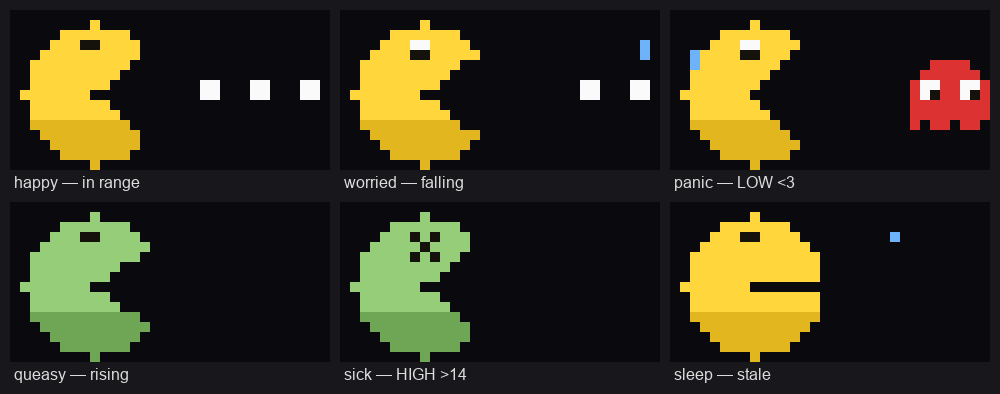
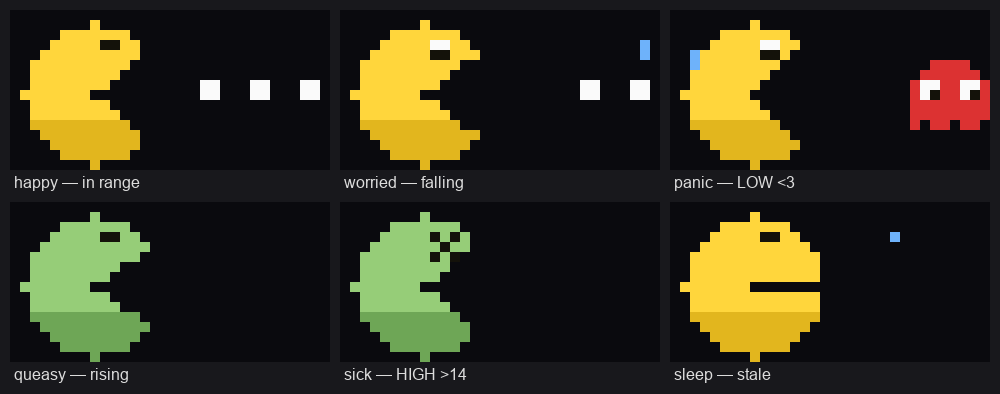
Move Pac-Man eye forward; redraw Snobben as a Snoopy-style profile
- pacman: eye sits up-front (toward the mouth) instead of dead centre.
- snobben: right-facing profile — round head + snout jutting right with the big
  black nose at the tip and the floppy ear at the back, much closer to Snoopy.
Regenerated pack GIFs + docs overviews.

diff --git a/src/gen-snobben.ts b/src/gen-snobben.ts
@@ -1,144 +1,115 @@
 /**
- * gen-snobben.ts — generate a "Snobben" (Snoopy-style beagle) face pack.
+ * gen-snobben.ts — "Snobben" (Snoopy-style beagle) face pack.
+ *   bun run gen-snobben   ->  packs/snobben/*.gif  + docs/snobben_*.gif
  *
- *   bun run gen-snobben
- *
- * Writes six 32x16 GIFs to packs/snobben/ (happy/worried/panic/queasy/sick/sleep)
- * plus upscaled previews to docs/. Original pixel art — a playful homage, not the
- * real character; for personal use on your own mug.
+ * A right-facing profile: round white head + a snout that juts to the right with
+ * the big black nose at the tip, one long floppy black ear at the back, small
+ * eyes. Original pixel art — a playful homage, not the real character.
  */
 import { GIFEncoder } from "gifenc";
 import { mkdirSync, writeFileSync } from "node:fs";
 import { join } from "node:path";
 
 const W = 32, H = 16;
-// 0 bg, 1 white, 2 black, 3 white-shade, 4 red, 5 green, 6 green-shade, 7 sweat
+// 0 bg,1 white,2 black,3 white-shade,4 red,5 green,6 green-shade,7 sweat
 const PALETTE: [number, number, number][] = [
   [10, 10, 14], [245, 245, 245], [20, 20, 20], [206, 206, 212],
   [210, 50, 50], [200, 230, 190], [168, 202, 158], [110, 178, 250],
 ];
 const CH: Record<string, number> = { B: 2, W: 1, R: 4, V: 7 };
-
 const blank = () => new Uint8Array(W * H).fill(0);
 
-/** Rounded-rect head, white (or green when sick), with a soft bottom shade. */
-function head(green = false, dx = 0): Uint8Array {
-  const f = blank();
-  const base = green ? 5 : 1, shade = green ? 6 : 3, r = 5;
-  const inRounded = (x: number, y: number) => {
-    const cxL = r, cxR = W - 1 - r, cyT = r, cyB = H - 1 - r;
-    const px = x < cxL ? cxL : x > cxR ? cxR : x;
-    const py = y < cyT ? cyT : y > cyB ? cyB : y;
-    const ddx = x - px, ddy = y - py;
-    return ddx * ddx + ddy * ddy <= r * r + 0.5;
-  };
+function ellipse(f: Uint8Array, cx: number, cy: number, rx: number, ry: number, color: number, dx = 0) {
   for (let y = 0; y < H; y++)
     for (let x = 0; x < W; x++) {
       const sx = x - dx;
-      if (sx < 0 || sx >= W || !inRounded(sx, y)) continue;
-      f[y * W + x] = y >= 12 ? shade : base;
+      if (((sx - cx) / rx) ** 2 + ((y - cy) / ry) ** 2 <= 1) f[y * W + x] = color;
     }
+}
+
+/** Head (round) + snout (juts right), white or green, shaded along the bottom. */
+function head(green = false, dx = 0): Uint8Array {
+  const f = blank();
+  const base = green ? 5 : 1, sh = green ? 6 : 3;
+  ellipse(f, 12, 7, 9, 6, base, dx); // skull
+  ellipse(f, 23, 10, 7, 4, base, dx); // snout
+  for (let y = 12; y < H; y++)
+    for (let x = 0; x < W; x++) if (f[y * W + x] === base) f[y * W + x] = sh;
   return f;
 }
-
-function stamp(f: Uint8Array, x: number, y: number, sprite: string[], dx = 0) {
-  for (let r = 0; r < sprite.length; r++)
-    for (let c = 0; c < sprite[r].length; c++) {
-      const ch = sprite[r][c];
-      if (ch === "." || ch === " ") continue;
-      const idx = CH[ch];
-      if (idx === undefined) continue;
-      const px = x + c + dx, py = y + r;
-      if (px >= 0 && px < W && py >= 0 && py < H) f[py * W + px] = idx;
-    }
+function stamp(f: Uint8Array, x: number, y: number, s: string[], dx = 0) {
+  for (let r = 0; r < s.length; r++) for (let c = 0; c < s[r].length; c++) {
+    const ch = s[r][c]; if (ch === "." || ch === " ") continue;
+    const idx = CH[ch]; if (idx === undefined) continue;
+    const px = x + c + dx, py = y + r;
+    if (px >= 0 && px < W && py >= 0 && py < H) f[py * W + px] = idx;
+  }
 }
 
-// Snoopy's long floppy black ear, hanging on the left
-const EAR = [
-  "BBB...", "BBBB..", "BBBB..", "BBBB..", "BBBB..",
-  "BBBB..", ".BBBB.", ".BBBB.", "..BBB.", "..BB..",
-];
-const EAR_UP = [ // flying up (panic)
-  "....BB", "..BBBB", ".BBBB.", "BBBB..", "BBB...",
-  "BBB...", "BBBB..", "BBBB..", ".BBB..", "..BB..",
-];
+// long floppy black ear at the back (left)
+const EAR = ["BBB..", "BBBB.", "BBBB.", "BBBBB", "BBBBB", ".BBBB", ".BBBB", ".BBB.", "..BB.", "..B.."];
+const EAR_UP = ["...BB", "..BBBB", ".BBBBB", "BBBBB.", "BBBB..", "BBB...", ".BB...", ".BB..."];
 
-// big black nose (snout)
-const NOSE = [".BBBB.", "BBBBBB", "BBBBBB", ".BBBB."];
-
-// eyes (black) — variants
-const EYE = ["B", "B", "B"];           // normal oval
-const EYE_HAPPY = ["B.B", ".B."];      // content ‿
-const EYE_WIDE = ["BB", "BB", "BB"];   // shocked
-const EYE_X = ["B.B", ".B.", "B.B"];   // sick
-const EYE_SLEEP = ["BBB"];             // closed line
-
-const MOUTH_SMILE = ["B....B", ".BBBB."];
-const MOUTH_FLAT = ["BBBBBB"];
+const EYE = ["B", "B"];
+const EYE_HAPPY = ["BB"];      // content squint
+const EYE_WIDE = ["BB", "BB"]; // shocked
+const EYE_X = ["B.B", ".B.", "B.B"];
+const EYE_SLEEP = ["BB"];
+const MOUTH = ["B...", ".BBB"];       // little smile under the snout
+const MOUTH_FLAT = ["BBBB"];
 const MOUTH_OPEN = [".BB.", "BRRB", ".BB."];
-const MOUTH_TONGUE = ["BBBB", "BRRB", ".RR."];
+const MOUTH_TONGUE = ["BBB", "BRB", ".R."];
 const SWEAT = ["V", "V"];
 
 type Expr = "happy" | "worried" | "panic" | "queasy" | "sick" | "sleep";
-
-function eyes(f: Uint8Array, l: string[], r: string[], dx = 0) {
-  stamp(f, 13, 4, l, dx);
-  stamp(f, 20, 4, r, dx);
-}
+const nose = (f: Uint8Array, dx = 0) => ellipse(f, 27, 9, 3, 2.6, 2, dx);
+const ear = (f: Uint8Array, up = false, dx = 0) => stamp(f, 0, up ? 0 : 1, up ? EAR_UP : EAR, dx);
+const eyes = (f: Uint8Array, l: string[], r: string[], dx = 0) => { stamp(f, 11, 4, l, dx); stamp(f, 15, 4, r, dx); };
 
 function frames(expr: Expr): Uint8Array[] {
-  const nose = (f: Uint8Array, dx = 0) => stamp(f, 13, 9, NOSE, dx);
-  const ear = (f: Uint8Array, up = false, dx = 0) => stamp(f, 1, 2, up ? EAR_UP : EAR, dx);
-
   if (expr === "happy") {
-    const a = head(); ear(a); eyes(a, EYE_HAPPY, EYE_HAPPY); nose(a); stamp(a, 12, 13, MOUTH_SMILE);
-    const b = head(); ear(b); eyes(b, EYE, EYE); nose(b); stamp(b, 12, 13, MOUTH_SMILE);
-    return [a, a, b]; // content, occasional open-eye
+    const a = head(); ear(a); eyes(a, EYE_HAPPY, EYE_HAPPY); nose(a); stamp(a, 17, 12, MOUTH);
+    const b = head(); ear(b); eyes(b, EYE, EYE); nose(b); stamp(b, 17, 12, MOUTH);
+    return [a, a, b];
   }
   if (expr === "worried") {
-    const mk = (sy: number) => { const f = head(); ear(f); eyes(f, EYE_WIDE, EYE_WIDE); nose(f); stamp(f, 13, 13, MOUTH_FLAT); stamp(f, 28, sy, SWEAT); return f; };
-    return [mk(4), mk(7)];
+    const mk = (sy: number) => { const f = head(); ear(f); eyes(f, EYE_WIDE, EYE_WIDE); nose(f); stamp(f, 17, 12, MOUTH_FLAT); stamp(f, 8, sy, SWEAT); return f; };
+    return [mk(9), mk(12)];
   }
   if (expr === "panic") {
-    const mk = (dx: number, sy: number) => { const f = head(false, dx); ear(f, true, dx); eyes(f, EYE_WIDE, EYE_WIDE, dx); nose(f, dx); stamp(f, 14 + dx, 12, MOUTH_OPEN); stamp(f, 2, sy, SWEAT); stamp(f, 29, sy, SWEAT); return f; };
-    return [mk(0, 4), mk(1, 7)];
+    const mk = (dx: number, sy: number) => { const f = head(false, dx); ear(f, true, dx); eyes(f, EYE_WIDE, EYE_WIDE, dx); nose(f, dx); stamp(f, 18 + dx, 12, MOUTH_OPEN); stamp(f, 8, sy, SWEAT); return f; };
+    return [mk(0, 9), mk(1, 12)];
   }
   if (expr === "queasy") {
-    const mk = (l: string[], r: string[]) => { const f = head(true); ear(f); eyes(f, l, r); nose(f); stamp(f, 12, 13, MOUTH_FLAT); return f; };
+    const mk = (l: string[], r: string[]) => { const f = head(true); ear(f); eyes(f, l, r); nose(f); stamp(f, 17, 12, MOUTH_FLAT); return f; };
     return [mk(EYE_SLEEP, EYE), mk(EYE, EYE_SLEEP)];
   }
   if (expr === "sick") {
-    const mk = (dx: number) => { const f = head(true, dx); ear(f, false, dx); eyes(f, EYE_X, EYE_X, dx); nose(f, dx); stamp(f, 13 + dx, 12, MOUTH_TONGUE); return f; };
+    const mk = (dx: number) => { const f = head(true, dx); ear(f, false, dx); eyes(f, EYE_X, EYE_X, dx); nose(f, dx); stamp(f, 19 + dx, 12, MOUTH_TONGUE); return f; };
     return [mk(0), mk(1)];
   }
   // sleep
-  const a = head(); ear(a); eyes(a, EYE_SLEEP, EYE_SLEEP); nose(a); stamp(a, 13, 13, MOUTH_FLAT); stamp(a, 25, 3, ["V"]);
-  const b = head(); ear(b); eyes(b, EYE_SLEEP, EYE_SLEEP); nose(b); stamp(b, 13, 13, MOUTH_FLAT); stamp(b, 26, 2, ["V"]);
+  const a = head(); ear(a); eyes(a, EYE_SLEEP, EYE_SLEEP); nose(a); stamp(a, 17, 12, MOUTH_FLAT); stamp(a, 6, 2, ["V"]);
+  const b = head(); ear(b); eyes(b, EYE_SLEEP, EYE_SLEEP); nose(b); stamp(b, 17, 12, MOUTH_FLAT); stamp(b, 7, 1, ["V"]);
   return [a, b, a];
 }
 
 function upscale(f: Uint8Array, s: number): Uint8Array {
-  const out = new Uint8Array(W * s * H * s);
-  for (let r = 0; r < H; r++) for (let c = 0; c < W; c++) {
-    const v = f[r * W + c];
-    for (let dr = 0; dr < s; dr++) for (let dc = 0; dc < s; dc++) out[(r * s + dr) * (W * s) + (c * s + dc)] = v;
-  }
-  return out;
+  const o = new Uint8Array(W * s * H * s);
+  for (let r = 0; r < H; r++) for (let c = 0; c < W; c++) { const v = f[r * W + c]; for (let dr = 0; dr < s; dr++) for (let dc = 0; dc < s; dc++) o[(r * s + dr) * (W * s) + (c * s + dc)] = v; }
+  return o;
 }
-
 function encode(fr: Uint8Array[], scale: number, delay = 300): Uint8Array {
-  const gif = GIFEncoder();
-  fr.forEach((f, i) => gif.writeFrame(scale === 1 ? f : upscale(f, scale), W * scale, H * scale, { palette: PALETTE, delay, repeat: 0, first: i === 0 }));
-  gif.finish();
-  return gif.bytes();
+  const g = GIFEncoder();
+  fr.forEach((f, i) => g.writeFrame(scale === 1 ? f : upscale(f, scale), W * scale, H * scale, { palette: PALETTE, delay, repeat: 0, first: i === 0 }));
+  g.finish(); return g.bytes();
 }
 
 const EXPRS: Expr[] = ["happy", "worried", "panic", "queasy", "sick", "sleep"];
-const packDir = join(import.meta.dir, "..", "packs", "snobben");
-mkdirSync(packDir, { recursive: true });
-mkdirSync(join(import.meta.dir, "..", "docs"), { recursive: true });
+const dir = join(import.meta.dir, "..", "packs", "snobben");
+mkdirSync(dir, { recursive: true });
 for (const e of EXPRS) {
-  writeFileSync(join(packDir, `${e}.gif`), encode(frames(e), 1));
+  writeFileSync(join(dir, `${e}.gif`), encode(frames(e), 1));
   writeFileSync(join(import.meta.dir, "..", "docs", `snobben_${e}.gif`), encode(frames(e), 10));
   console.log("wrote", `packs/snobben/${e}.gif`);
 }

diff --git a/src/gen-pacman.ts b/src/gen-pacman.ts
@@ -49,7 +49,8 @@ const GHOST = [
 const SWEAT = ["V", "V"];
 
 type Expr = "happy" | "worried" | "panic" | "queasy" | "sick" | "sleep";
-const eye = (f: Uint8Array, s: string[], dx = 0) => stamp(f, CX - 1, CY - 5, s, dx);
+// eye sits forward (toward the mouth) and near the top, like the arcade sprite
+const eye = (f: Uint8Array, s: string[], dx = 0) => stamp(f, CX + 1, CY - 5, s, dx);
 const pellets = (f: Uint8Array, xs: number[]) => xs.forEach((x) => stamp(f, x, CY - 1, PELLET));
 
 function frames(expr: Expr): Uint8Array[] {
@@ -79,8 +80,8 @@ function frames(expr: Expr): Uint8Array[] {
     return [mk(0), mk(1)];
   }
   // sleep — full disc (mouth shut), closed eye, snore bubble
-  const a = blank(); pac(a, false, 0); stamp(a, CX - 1, CY - 5, ["BB"]); stamp(a, 22, 3, ["V"]);
-  const b = blank(); pac(b, false, 3); stamp(b, CX - 1, CY - 5, ["BB"]); stamp(b, 23, 2, ["V"]);
+  const a = blank(); pac(a, false, 0); eye(a, ["BB"]); stamp(a, 22, 3, ["V"]);
+  const b = blank(); pac(b, false, 3); eye(b, ["BB"]); stamp(b, 23, 2, ["V"]);
   return [a, b, a];
 }
 
